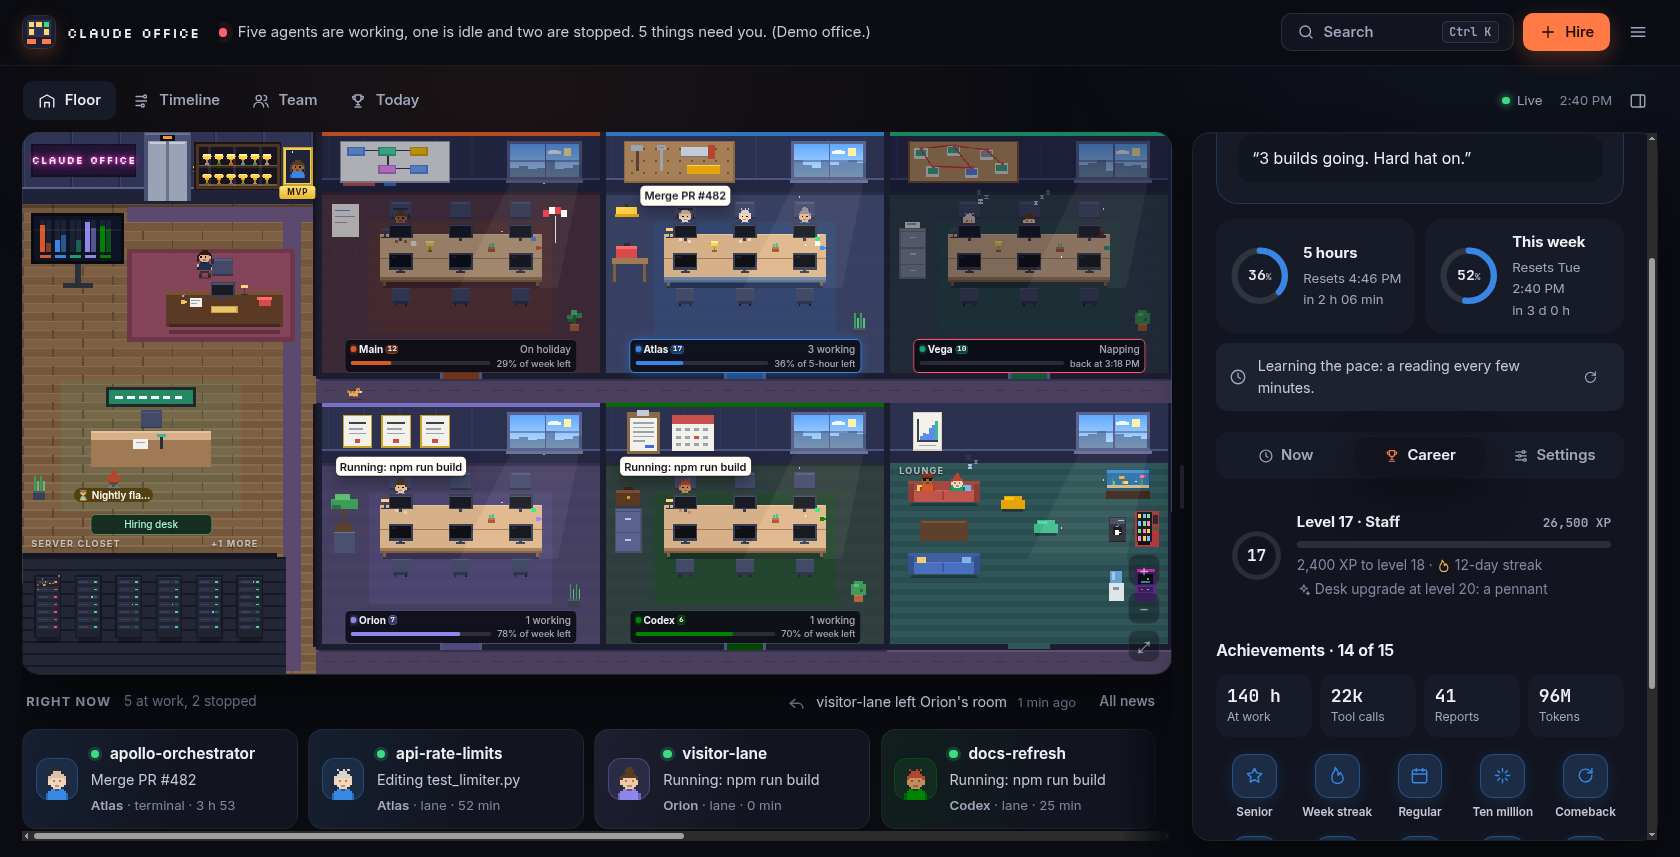
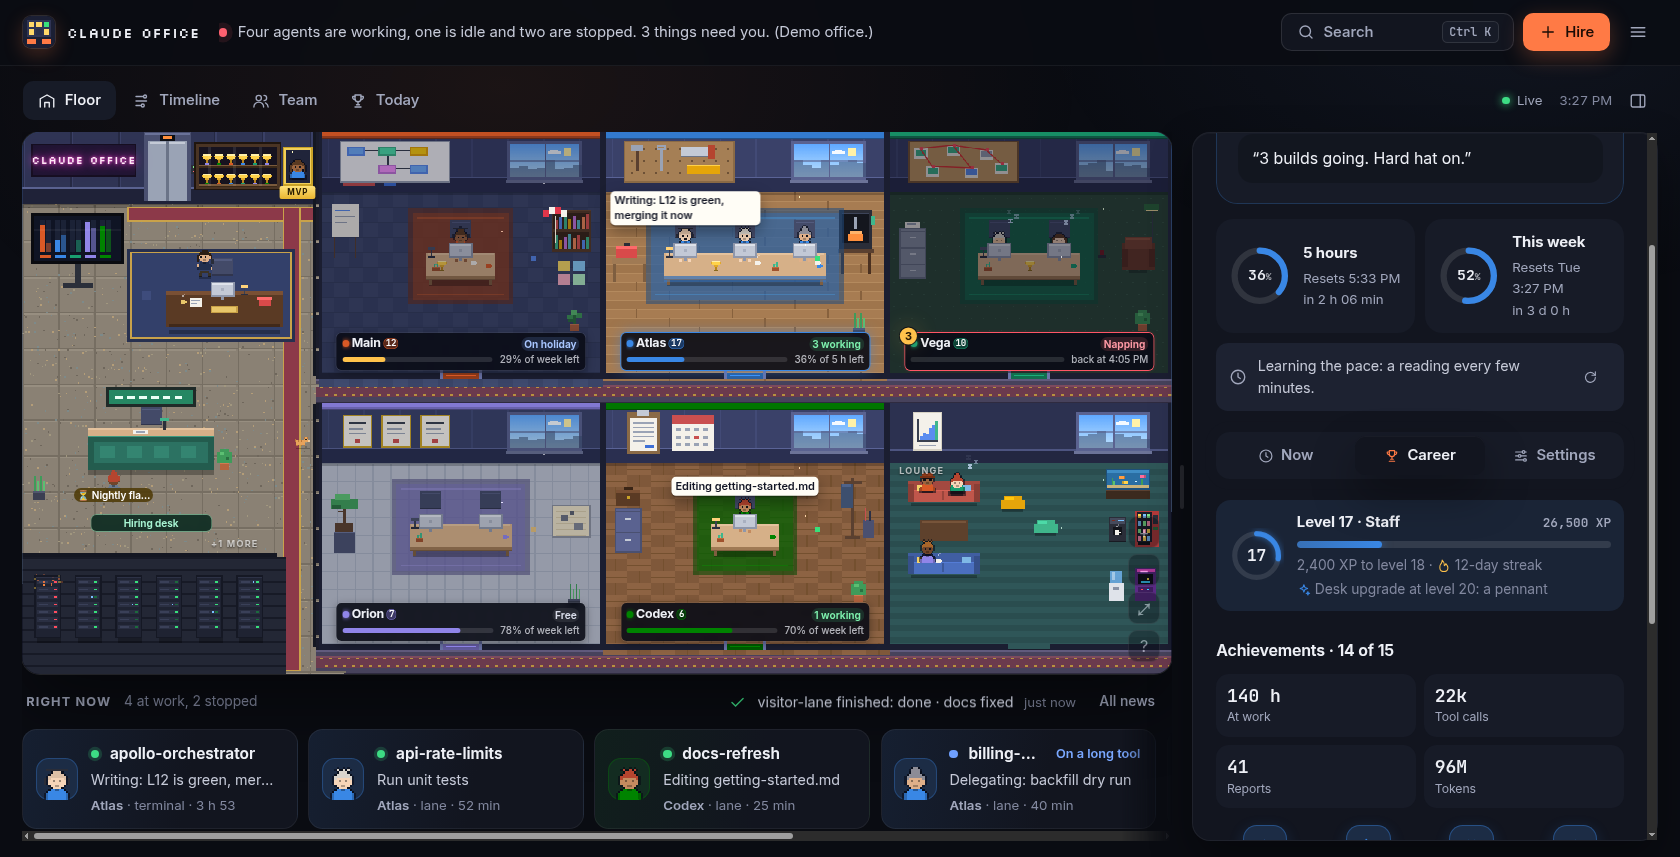
feat(floor): terrazzo lobby, hiring counter, people outlines; 3.3.0 docs and gallery (room peek, day theme, timeline)

diff --git a/web/engine/scene.js b/web/engine/scene.js
@@ -112,27 +112,31 @@ export function drawStatic(c, L) {
     S.rect(c, LOBBY_W, cy + 3, W - LOBBY_W, 8, "#6b3a4d"); S.rect(c, LOBBY_W, cy + 3, W - LOBBY_W, 1, "#7d4a5e");
     for (let x = LOBBY_W + 3; x < W - 3; x += 6) { S.rect(c, x, cy + 4, 2, 1, "#b8913f"); S.rect(c, x + 3, cy + 9, 2, 1, "#b8913f"); }
   }
-  // lobby: warm planks, a back wall with the brand, the elevator and the trophy cabinet
-  for (let y = WALL; y < H; y += 6) {
-    const odd = ((y / 6) | 0) % 2;
-    S.rect(c, 0, y, LOBBY_W, 6, odd ? S.P.floorA : S.P.floorB);
-    S.rect(c, 0, y, LOBBY_W, 1, S.P.floorHi);
-    for (let x = odd ? 0 : 20; x < LOBBY_W; x += 40) S.rect(c, x, y, 1, 6, S.P.floorLine);
+  // lobby: a terrazzo floor in big polished slabs, a back wall with the brand, the elevator and the trophy cabinet
+  S.rect(c, 0, WALL, LOBBY_W, H - WALL, "#8a8174");
+  for (let y = WALL; y < H; y += 24) for (let x = 0; x < LOBBY_W; x += 24) { S.rect(c, x, y, 24, 1, "#766e62"); S.rect(c, x, y, 1, 24, "#766e62"); S.rect(c, x + 1, y + 1, 22, 1, "#978e80"); }
+  for (let i = 0; i < LOBBY_W * (H - WALL) / 40; i++) {
+    const hx = S.hashOf("tz" + i), x = hx % LOBBY_W, y = WALL + (hx >>> 9) % (H - WALL);
+    S.rect(c, x, y, 1, 1, ["#a1977f", "#6f675c", "#b49d78", "#7d8a8a"][(hx >>> 20) % 4]);
   }
   S.rect(c, 0, 0, LOBBY_W, WALL, S.P.wall);
   for (let x = 0; x < LOBBY_W; x += 32) { S.rect(c, x, 0, 1, WALL - 10, S.P.wallLo); S.rect(c, x + 1, 0, 1, WALL - 10, S.P.wallHi); }
   S.rect(c, 0, WALL - 10, LOBBY_W, 10, S.P.wainscot); S.rect(c, 0, WALL - 11, LOBBY_W, 1, S.P.trim);
   S.rect(c, 0, WALL, LOBBY_W, 3, "rgba(0,0,0,0.28)");
-  // a runner from the elevator to the rooms
-  S.rect(c, 70, WALL + 2, LOBBY_W - 70, 10, "#5c4a6e"); S.rect(c, LOBBY_W - 22, WALL + 2, 12, H - WALL - 4, "#5c4a6e");
-  // CEO corner: a rug under the desk
-  S.rect(c, 70, L.ceo.y + 30, 112, 62, "#6e3646"); S.rect(c, 73, L.ceo.y + 33, 106, 56, "#84445a");
-  // hiring desk
+  // a red carpet from the elevator to the rooms, edged in gold
+  const runner = (x, y, w, h) => { S.rect(c, x, y, w, h, "#7a2f3f"); S.rect(c, x + 1, y + 1, w - 2, h - 2, "#8c3949"); S.rect(c, x, y, w, 1, "#c9a24a"); S.rect(c, x, y + h - 1, w, 1, "#c9a24a"); S.rect(c, x, y, 1, h, "#c9a24a"); S.rect(c, x + w - 1, y, 1, h, "#c9a24a"); };
+  runner(70, WALL + 2, LOBBY_W - 70, 10); runner(LOBBY_W - 22, WALL + 2, 12, H - WALL - 4);
+  // CEO corner: a navy rug with a gold border under the desk
+  S.rect(c, 70, L.ceo.y + 30, 112, 62, "#27304f"); S.rect(c, 72, L.ceo.y + 32, 108, 58, "#c9a24a"); S.rect(c, 73, L.ceo.y + 33, 106, 56, "#33406a");
+  for (let i = 0; i < 6; i++) S.rect(c, 80 + i * 17, L.ceo.y + 58, 6, 6, "#3e4c7c");
+  // the hiring desk: a reception counter in teal with a frosted front
   const h = L.hire;
-  S.rect(c, h.x + 4, h.y + 8, POD_W - 8, 88, "rgba(63,182,139,0.10)");
-  S.rect(c, h.x + 24, h.y + 44, 80, 22, S.P.deskEdge); S.rect(c, h.x + 24, h.y + 42, 80, 6, S.P.deskTop); S.rect(c, h.x + 24, h.y + 42, 80, 1, S.P.deskTopHi);
-  S.drawChairFront(c, h.x + 57, h.y + 28);
-  S.drawPlant(c, 6, h.y + 70, 1);
+  S.rect(c, h.x + 22, h.y + 68, 84, 3, S.P.shadow);
+  S.rect(c, h.x + 22, h.y + 44, 84, 24, "#235c4e"); S.rect(c, h.x + 22, h.y + 44, 84, 2, "#3f9b80"); S.rect(c, h.x + 26, h.y + 49, 76, 14, "#2c7262");
+  for (let i = 0; i < 4; i++) S.rect(c, h.x + 30 + i * 18, h.y + 52, 10, 8, "#348571");
+  S.rect(c, h.x + 22, h.y + 40, 84, 5, S.P.deskTop); S.rect(c, h.x + 22, h.y + 40, 84, 1, S.P.deskTopHi);
+  S.drawChairFront(c, h.x + 57, h.y + 26);
+  S.drawPlant(c, 6, h.y + 70, 1); S.drawPlant(c, h.x + 108, h.y + 54, 2);
   // server closet: tiles behind a low wall
   const sv = L.server;
   for (let y = sv.y; y < H; y += 8) for (let x = 0; x < LOBBY_W - 26; x += 8) { S.rect(c, x, y, 8, 8, ((x + y) / 8) % 2 ? S.P.tile : S.P.tileB); S.rect(c, x, y, 8, 1, S.P.tileLine); }

diff --git a/web/engine/sprites.js b/web/engine/sprites.js
@@ -131,11 +131,34 @@ export function drawTorso(ctx, x, y, look, rows = 5) {
   rect(ctx, x + 4, y, 2, 1, shade(look.shirt, 0.65));        // collar
 }
 
+// A person's silhouette (head + torso, with the hair style's extra pixels), drawn a pixel out on each side in a dark
+// tone under the sprite: a soft outline that keeps people readable on light and busy floors. Cached per shape.
+const silCache = new Map();
+function silhouette(facing, style, legs) {
+  const k = facing + style + (legs ? "L" : "");
+  if (silCache.has(k)) return silCache.get(k);
+  const rows = (facing === "up" ? HEAD_UP : HEAD_DOWN).concat(TORSO).concat(legs ? LEGS.stand : []);
+  const c = document.createElement("canvas"); c.width = 10; c.height = rows.length + 2;
+  const g = c.getContext("2d"); g.fillStyle = "rgba(8,10,20,0.55)";
+  rows.forEach((row, r) => { for (let i = 0; i < row.length; i++) if (row[i] !== ".") g.fillRect(i, r + 2, 1, 1); });
+  if (style === 1) { g.fillRect(0, 5, 1, 5); g.fillRect(9, 5, 1, 5); }
+  if (style === 2) { g.fillRect(4, 0, 2, 2); g.fillRect(3, 1, 4, 1); }
+  if (style === 3) { g.fillRect(2, 1, 1, 1); g.fillRect(5, 1, 1, 1); g.fillRect(7, 1, 1, 1); }
+  silCache.set(k, c);
+  return c;
+}
+function outline(ctx, x, y, facing, style, legs) {
+  if (typeof document === "undefined") return;
+  const m = silhouette(facing, style, legs);
+  for (const [ox, oy] of [[-1, 0], [1, 0], [0, -1]]) ctx.drawImage(m, x + ox, y - 2 + oy);
+}
+
 // Seated, upper body only (the desk hides the rest): 13 rows.
 export function drawSeated(ctx, x, y, look, facing, pose, t) {
   const sleep = pose === "sleep";
   const bob = pose === "idle" ? Math.round(Math.sin(t / 900) * 0.6) : 0;
   const hy = y + (sleep && facing === "down" ? 3 : bob);
+  outline(ctx, x, hy, facing, look.style, false);
   drawTorso(ctx, x, y + 8, look);
   const blink = !sleep && Math.floor(t / 3100) % 7 === 0 && (t % 3100) < 130;
   const thinking = pose === "think" && Math.floor(t / 1400) % 2 === 0;

diff --git a/web/office.js b/web/office.js
@@ -482,8 +482,8 @@ export function createOffice(stage, handlers) {
     S.rect(ctx, h.x + 36, h.y + 14, 56, 10, Math.floor(t / 700) % 2 ? "#2fa77b" : "#258763");
     for (let i = 0; i < 6; i++) S.rect(ctx, h.x + 40 + i * 8, h.y + 18, 5, 2, "#eafff6");
     lights.push({ x: h.x + 64, y: h.y + 19, r: 34, c: "#3fe0a0", i: 0.45 });
-    S.rect(ctx, h.x + 52, h.y + 47, 10, 7, S.P.white); S.rect(ctx, h.x + 54, h.y + 49, 6, 1, "#9aa3b5");
-    S.rect(ctx, h.x + 70, h.y + 45, 2, 9, "#2b2f3a"); S.rect(ctx, h.x + 68, h.y + 44, 6, 2, "#3fb68b");
+    S.rect(ctx, h.x + 52, h.y + 41, 10, 3, S.P.white); S.rect(ctx, h.x + 54, h.y + 42, 6, 1, "#9aa3b5");
+    S.rect(ctx, h.x + 72, h.y + 34, 2, 7, "#2b2f3a"); S.rect(ctx, h.x + 70, h.y + 33, 6, 2, "#3fb68b");
     waiting().forEach((l, i) => {                  // office lanes waiting for a seat queue up here
       const x = h.x + 34 + i * 14, y = h.y + 70;
       S.drawWalker(ctx, x, y, S.lookFor("lane-" + l.id, "#6b7a90"), "up", t, false);

diff --git a/office/demo.py b/office/demo.py
@@ -241,7 +241,7 @@ class DemoOffice(LiveOffice):
             {"unit": "lane-supervisor.service", "active": "active", "sub": "running", "description": "Relaunches lanes after a limit"},
             {"unit": "nightly-report.service", "active": "failed", "sub": "failed", "description": "Nightly usage report"},
         ]
-        snap = {"now": now, "office": {"started_at": self.started_at, "version": "3.2.0", "name": self.cfg["office_name"], "ceo": self.cfg["ceo"], "config_error": None,
+        snap = {"now": now, "office": {"started_at": self.started_at, "version": "3.3.0", "name": self.cfg["office_name"], "ceo": self.cfg["ceo"], "config_error": None,
                                        "default_workdir": "/home/you/work",
                                        "lane_defaults": {"model": "opus", "permission_mode": "acceptEdits"}},
                 "seats": seats, "units": units, "lanes": lanes, "programmes": list(progs.values()), "divider": div,

diff --git a/office/snapshot.py b/office/snapshot.py
@@ -377,7 +377,7 @@ class Office(LiveOffice):
                                       "report_status": x.get("report_status")})
         snap = {
             "now": now,
-            "office": {"started_at": self.started_at, "version": "3.2.0", "name": cfg.get("office_name"), "ceo": cfg.get("ceo"), "config_error": cfg.get("config_error"),
+            "office": {"started_at": self.started_at, "version": "3.3.0", "name": cfg.get("office_name"), "ceo": cfg.get("ceo"), "config_error": cfg.get("config_error"),
                        "default_workdir": cfg.get("default_workdir"),
                        "lane_defaults": {k: cfg["lane_defaults"].get(k) for k in ("model", "permission_mode")}},
             "seats": seats_out,

diff --git a/tests/test_settings_voice.py b/tests/test_settings_voice.py
@@ -79,7 +79,7 @@ class SettingsTests(unittest.TestCase):
                 self.assertEqual(after["seats"][0]["label"], "Atlas")
                 self.assertEqual(after["seats"][0]["color"], "#112233")
                 self.assertEqual(after["seats"][1]["label"], "Star")
-                self.assertEqual(after["office"]["version"], "3.2.0")
+                self.assertEqual(after["office"]["version"], "3.3.0")
                 self.assertEqual(before["office"]["started_at"], after["office"]["started_at"])
 
     def test_settings_redacts_configurable_names_and_omits_credentials(self):

diff --git a/tests/test_stream.py b/tests/test_stream.py
@@ -171,4 +171,4 @@ class StreamTests(unittest.TestCase):
             self.office.emit("report", "Demo report")
             self.office.build()
         self.assertEqual(self.office.get()["office"]["started_at"], before)
-        self.assertEqual(self.office.get()["office"]["version"], "3.2.0")
+        self.assertEqual(self.office.get()["office"]["version"], "3.3.0")

diff --git a/office/server.py b/office/server.py
@@ -27,7 +27,7 @@ class Handler(BaseHTTPRequestHandler):
     token = ""
     port = config.DEFAULT_PORT
     demo = False
-    server_version = "ClaudeOffice/3.2.0"
+    server_version = "ClaudeOffice/3.3.0"
 
     def log_message(self, fmt, *args):  # quiet: the office polls every few seconds
         pass

diff --git a/README.md b/README.md
@@ -17,6 +17,8 @@ desk.
 | ![The office floor](docs/office.png) | ![Chat](docs/session.png) | ![Team](docs/team.png) |
 | **Level up** | **Trophy room** | **Trophy wall** |
 | ![A LEVEL UP banner sweeps the floor](docs/levelup.png) | ![The trophy room leaderboard](docs/trophies.png) | ![A character's career and trophy wall](docs/career.png) |
+| **Room peek** | **Day theme** | **Timeline** |
+| ![Hovering a room shows who is doing what](docs/peek.png) | ![The office in the day theme](docs/light.png) | ![Every session over the last hours](docs/timeline.png) |
 
 ## Why
 
@@ -31,10 +33,16 @@ go?* Claude Office answers them in one glance, in plain English, and lets you ac
   name on the door, a floor in its colour, a window, and decor that matches its personality. The Investigator has a
   corkboard with red string, the Builder a tool pegboard and a hard hat, the Night Owl a moon poster, string lights
   and a coffee machine, and so on.
-- One worker per live session. They type, read, think, wait on long tools, sweat when stuck, and fall asleep when
-  their seat is out of plan. Terminal sessions wear headsets; a subagent shows up as a little helper drone.
+- One worker per live session, at a desk sized to the people actually there (one, two, three, four or six seats) on
+  a rug in the seat's colour. They type, read, think, wait on long tools, sweat when stuck, and fall asleep when their
+  seat is out of plan. Terminal sessions wear headsets; a subagent shows up as a little helper drone.
+- Every personality has its own floor (oak planks, carpet tiles, library green, pale tiles, a starry navy carpet, a
+  chequered floor, parquet) and its own furniture corner: a 3D printer, an armchair under a lamp, a sand garden.
 - Rooms tell you their state at a glance: lights on while people work, dim while the seat naps (with when it is back),
-  a beach umbrella when it is on holiday, a padlock on the door when it is logged out.
+  a beach umbrella when it is on holiday, a padlock on the door when it is logged out. Each nameplate shows the name,
+  level, a coloured status chip and the plan left, with a pulsing badge when something about that seat needs you.
+- **Room peek**: hover a room for a moment and a card shows its voice, both plans and who is doing what. The `?` by the
+  camera buttons explains every colour, badge and icon on the floor.
 - A lobby holds the elevator, the CEO's desk with the capacity board, the hiring desk, the trophy cabinet and the
   server closet. A spare room becomes the lounge, where seats on a break hang out.
 - Arrivals walk in from the elevator, down the corridor and through their room's door. Filed reports burst into

diff --git a/CHANGELOG.md b/CHANGELOG.md
@@ -3,6 +3,24 @@
 All notable changes to Claude Office are documented here, following Keep a Changelog.
 Version entries describe the implemented milestones in repository history, not published GitHub releases.
 
+## [3.3.0] - 2026-10-17
+
+### Changed
+- The floor, reworked: desks sized to the people at them, a floor and a furniture corner per personality, lighter
+  walls, brighter lighting, corridors with a runner, a terrazzo lobby with a red carpet and a teal hiring counter, and a
+  soft outline around people.
+- Nameplates: bigger, with a coloured status chip, a plan bar and a pulsing Needs-you badge.
+
+### Added
+- Room peek: hovering a room shows a card with its voice, plans and who is doing what.
+- A floor legend behind the `?` camera button.
+
+### Fixed
+- The load divider's split bar (a class clash hid its segments), the camera aim and double-click when the inspector was
+  hidden, the Career level ring colour, double goal celebrations, the header's Needs-you count, focus after `\`, Esc and
+  dismissals, toast position under text zoom, the phone dock news line, the chat hint, the Career tab at narrow widths,
+  timeline marker names, and "Waiting for you" shown for a long tool call.
+
 ## [3.2.0] - 2026-10-17
 
 ### Added
